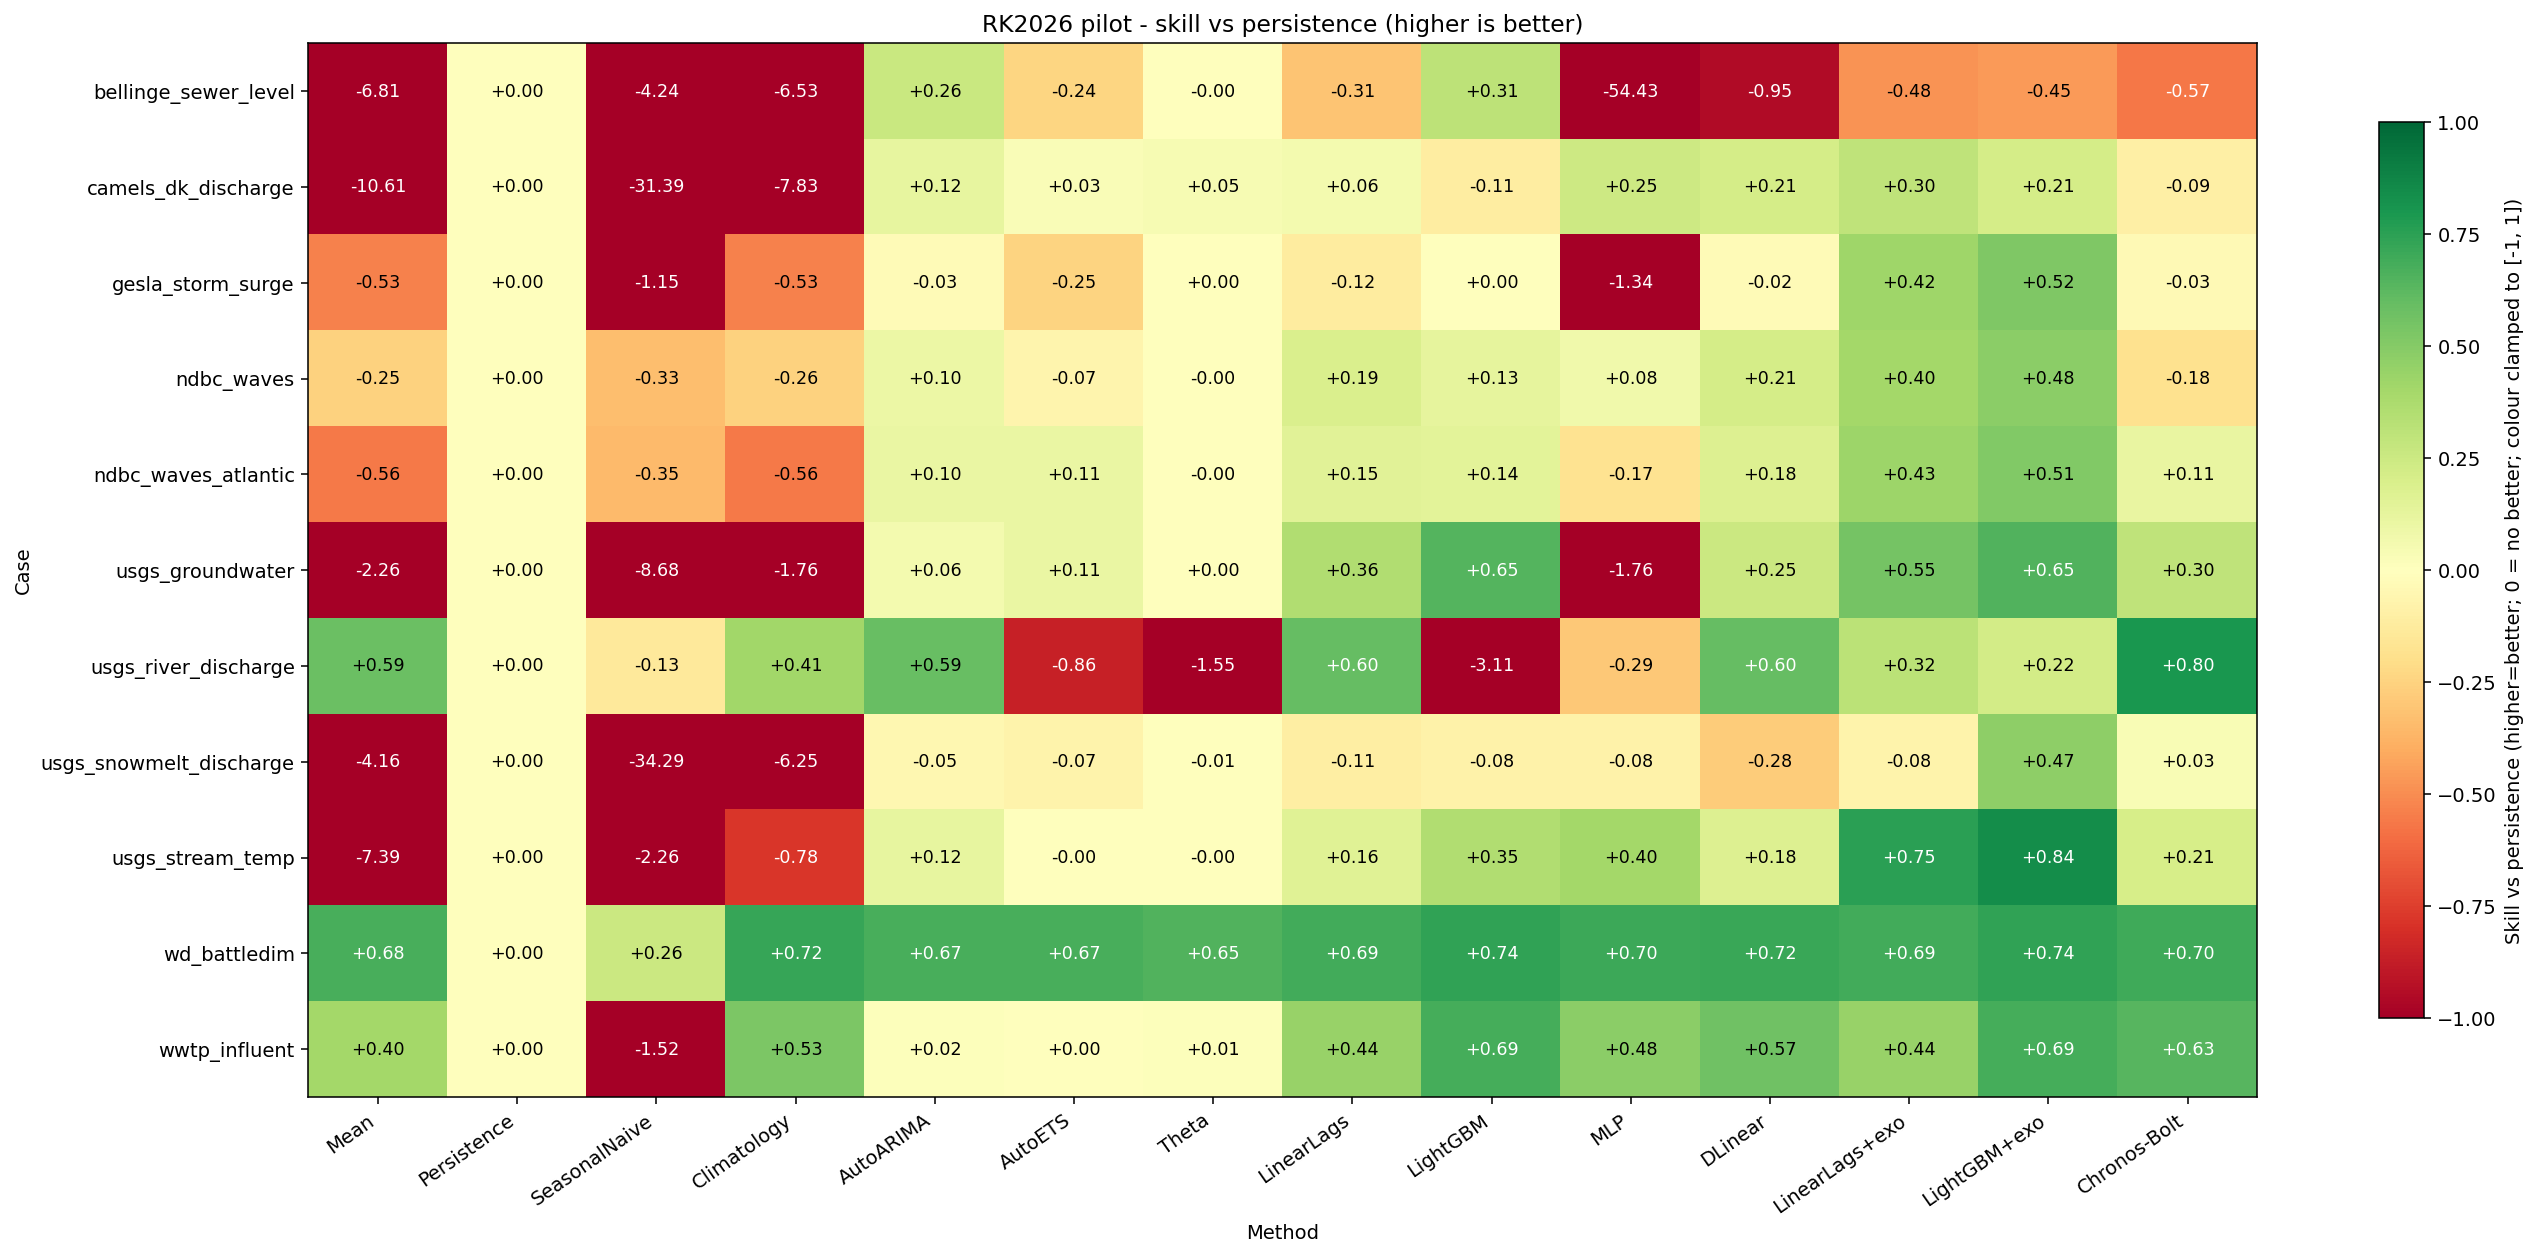
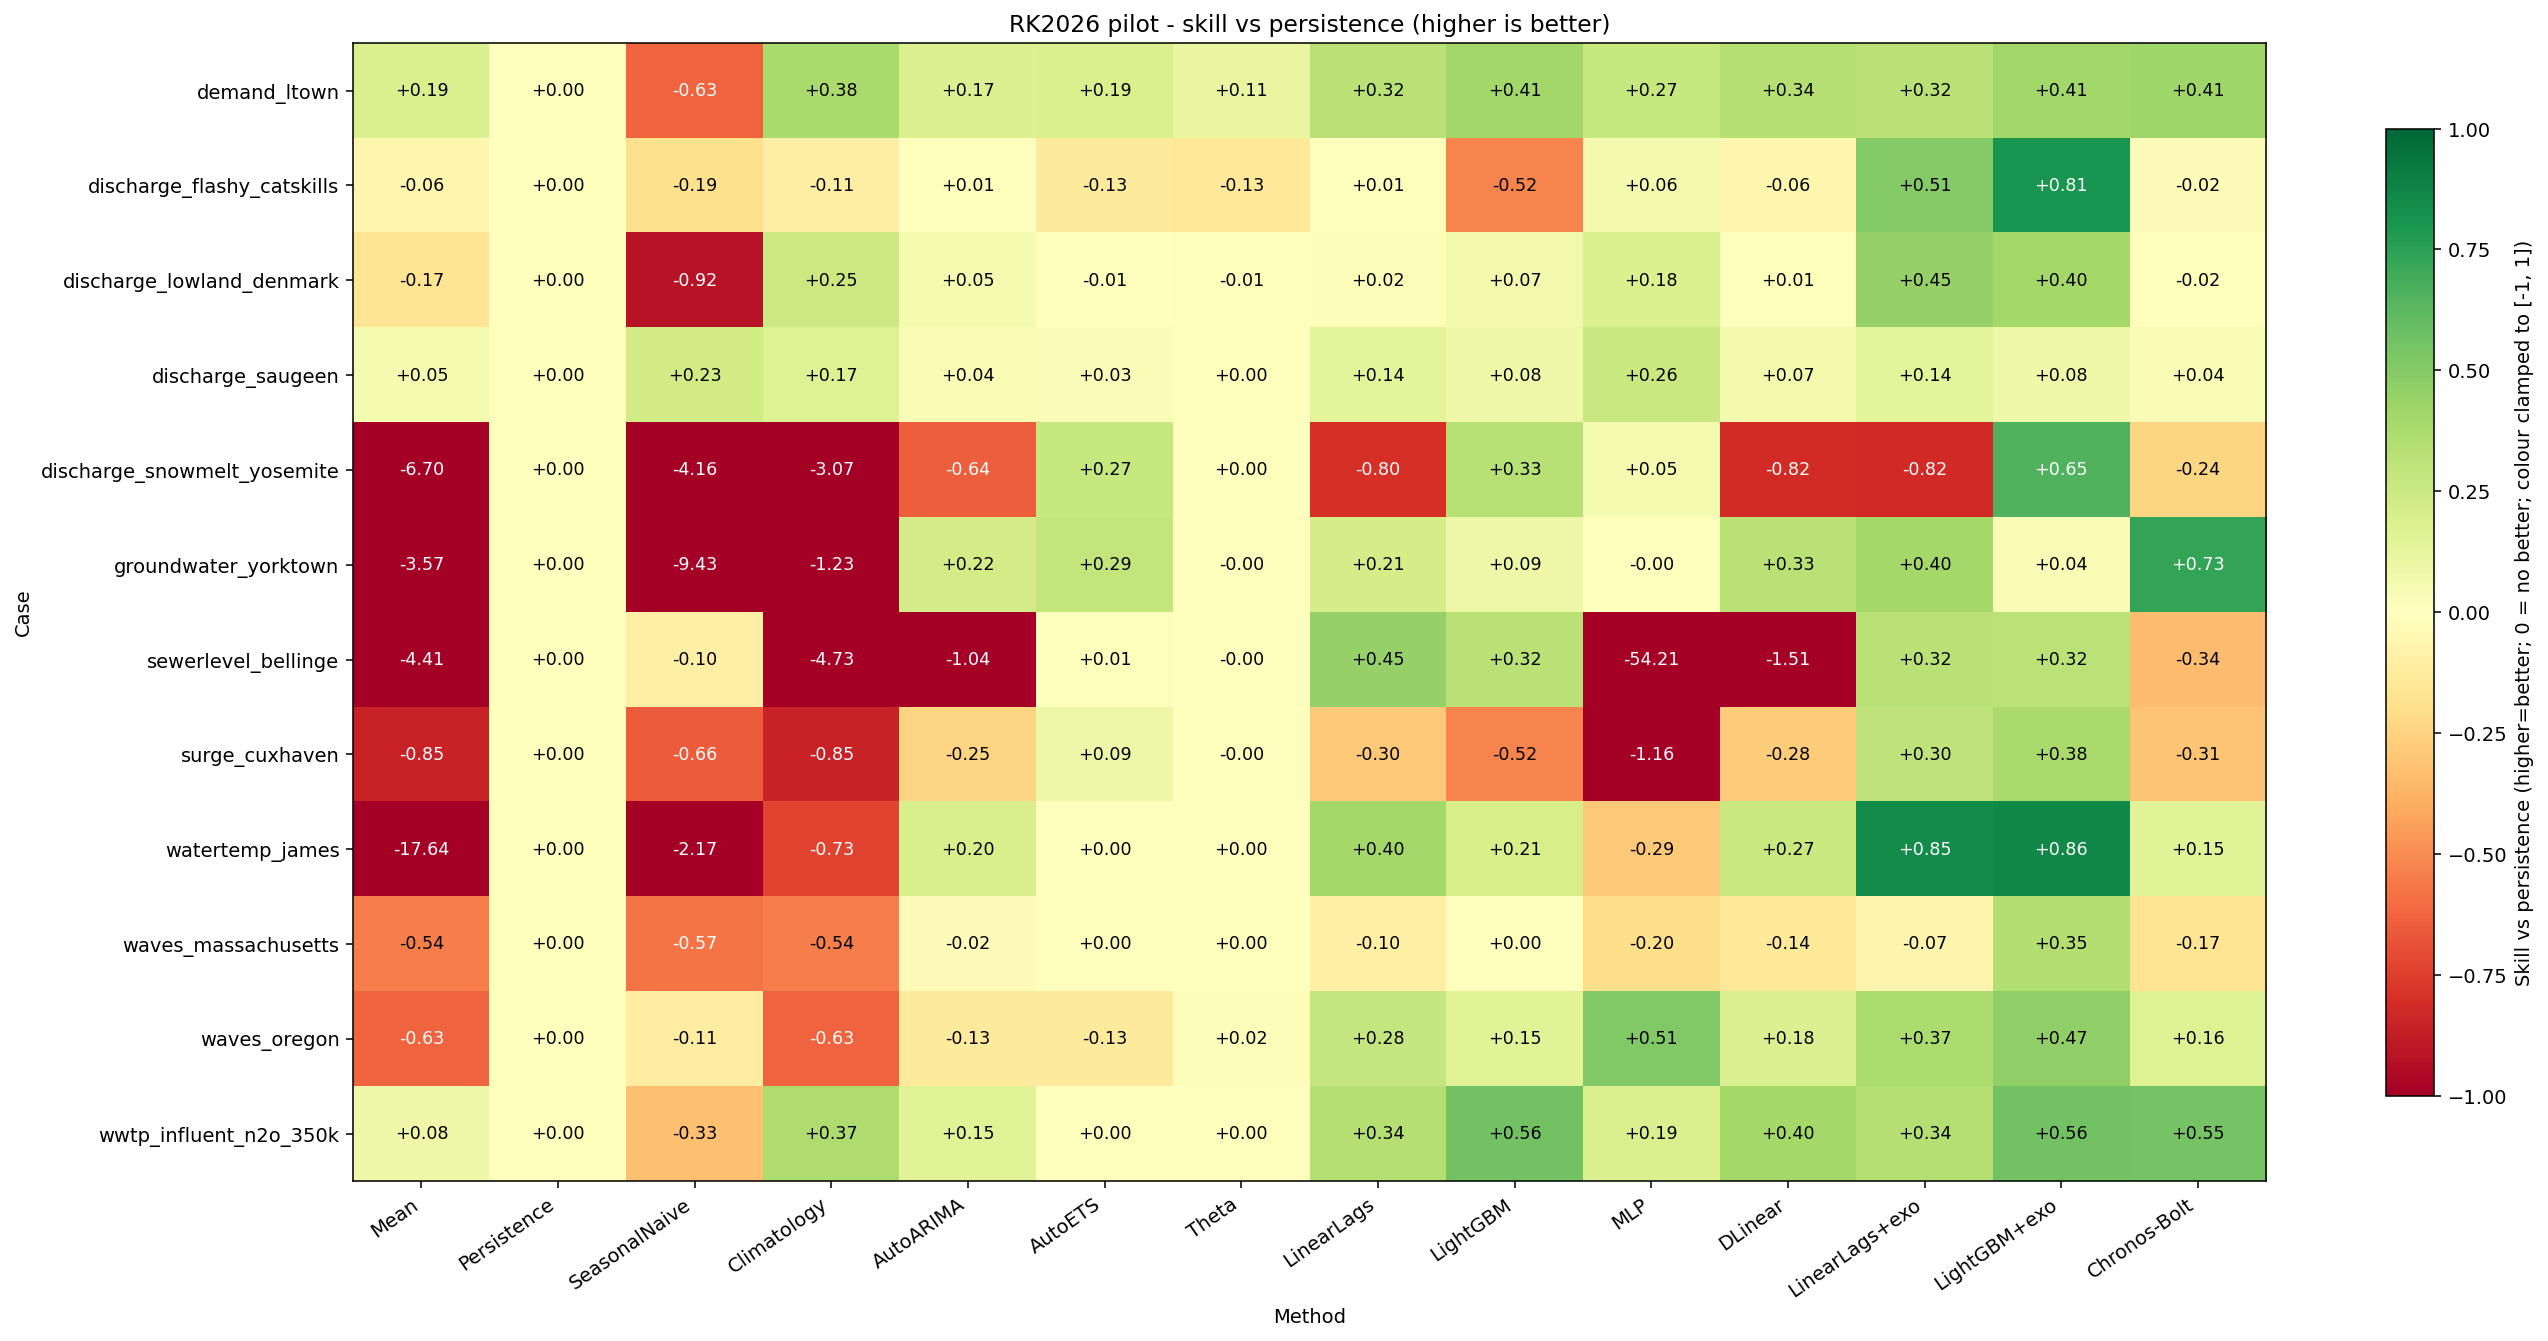
Commit new results with revisited train-val-test split

diff --git a/docs/RESULTS.md b/docs/RESULTS.md
@@ -1,6 +1,6 @@
 # Benchmark results
 
-One consistent pass across **all 11 cases × 14 methods**, scored by **rolling-origin**
+One consistent pass across **all 12 cases × 14 methods**, scored by **rolling-origin**
 evaluation (12 refit origins per cell, errors pooled over origins × lead times, observed
 points only). The headline cell is **skill vs persistence** = `1 − MSE(model)/MSE(persistence)`
 at the primary horizon: positive means better than "tomorrow = today", `1.0` is perfect.
@@ -19,17 +19,18 @@ to [−1, 1] so one catastrophic cell can't wash out the scale). Numbers + analy
 
 | case | SeasonalNaive | AutoARIMA | DLinear | LightGBM | LightGBM+exo | Chronos-Bolt | best |
 |---|---|---|---|---|---|---|---|
-| discharge_lowland_denmark (slow hydrology) | −31.4 | +0.12 | +0.21 | −0.11 | +0.21 | −0.09 | **LinearLags+exo +0.30** |
-| discharge_flashy_catskills (flashy) | −0.13 | +0.59 | +0.60 | −3.11 | +0.22 | **+0.80** | **Chronos +0.80** |
-| discharge_snowmelt_yosemite | −34.3 | −0.05 | −0.28 | −0.08 | +0.47 | +0.03 | **LightGBM+exo +0.47** |
-| groundwater_yorktown | −8.68 | +0.06 | +0.25 | **+0.65** | +0.65 | +0.30 | **LightGBM +0.65** |
-| watertemp_james | −2.26 | +0.12 | +0.18 | +0.35 | **+0.84** | +0.21 | **LightGBM+exo +0.84** |
-| sewerlevel_bellinge | −4.24 | +0.26 | −0.95 | **+0.31** | −0.45 | −0.57 | **LightGBM +0.31** |
-| demand_ltown | +0.26 | +0.67 | +0.72 | **+0.74** | +0.74 | +0.70 | **LightGBM +0.74** |
-| wwtp_influent_n2o_350k | −1.52 | +0.02 | +0.57 | **+0.69** | +0.69 | +0.63 | **LightGBM +0.69** |
-| surge_cuxhaven | −1.15 | −0.03 | −0.02 | +0.00 | **+0.52** | −0.03 | **LightGBM+exo +0.52** |
-| waves_oregon (swell) | −0.33 | +0.10 | +0.21 | +0.13 | **+0.48** | −0.18 | **LightGBM+exo +0.48** |
-| waves_massachusetts (wind-sea) | −0.35 | +0.10 | +0.18 | +0.14 | **+0.51** | +0.11 | **LightGBM+exo +0.51** |
+| discharge_lowland_denmark (slow hydrology) | −0.92 | +0.05 | +0.01 | +0.07 | +0.40 | −0.02 | **LinearLags+exo +0.45** |
+| discharge_flashy_catskills (flashy) | −0.19 | +0.01 | −0.06 | −0.52 | **+0.81** | −0.02 | **LightGBM+exo +0.81** |
+| discharge_snowmelt_yosemite | −4.16 | −0.64 | −0.82 | +0.33 | **+0.65** | −0.24 | **LightGBM+exo +0.65** |
+| discharge_saugeen (seasonal) | +0.23 | +0.04 | +0.07 | +0.08 | +0.08 | +0.04 | **MLP +0.26** |
+| groundwater_yorktown | −9.43 | +0.22 | +0.33 | +0.09 | +0.04 | **+0.73** | **Chronos +0.73** |
+| watertemp_james | −2.17 | +0.20 | +0.27 | +0.21 | **+0.86** | +0.15 | **LightGBM+exo +0.86** |
+| sewerlevel_bellinge | −0.10 | −1.04 | −1.51 | +0.32 | +0.32 | −0.34 | **LinearLags +0.45** |
+| demand_ltown | −0.63 | +0.17 | +0.34 | **+0.41** | +0.41 | +0.41 | **LightGBM +0.41** |
+| wwtp_influent_n2o_350k | −0.33 | +0.15 | +0.40 | **+0.56** | +0.56 | +0.55 | **LightGBM +0.56** |
+| surge_cuxhaven | −0.66 | −0.25 | −0.28 | −0.52 | **+0.38** | −0.31 | **LightGBM+exo +0.38** |
+| waves_oregon (swell) | −0.11 | −0.13 | +0.18 | +0.15 | +0.47 | +0.16 | **MLP +0.51** |
+| waves_massachusetts (wind-sea) | −0.57 | −0.02 | −0.14 | +0.00 | **+0.35** | −0.17 | **LightGBM+exo +0.35** |
 
 (`+exo` = the exogenous-aware Tier-2 variant; on `demand_ltown` / `wwtp_influent_n2o_350k`, which
 declare no covariates, it equals the univariate column by construction.)
@@ -37,65 +38,78 @@ declare no covariates, it equals the univariate column by construction.)
 ## What the matrix says
 
 **1. Covariate-aware models win where covariates exist; plain boosting wins the regular,
-self-driven series.** `LightGBM+exo` or `LinearLags+exo` is best on 8 of 11 cases; plain
-`LightGBM` takes the three that are essentially self-driven (`demand_ltown` demand,
-`wwtp_influent_n2o_350k` flow, `groundwater_yorktown`); `Chronos` zero-shot takes the flashy river. No
-naive or classical method wins anywhere on these horizons.
+self-driven series.** `LightGBM+exo` or `LinearLags+exo` is best on 6 of 12 cases (the
+covariate-driven ones); `LightGBM` takes the two self-driven cases (`demand_ltown`,
+`wwtp_influent_n2o_350k`); `Chronos` zero-shot takes groundwater; `MLP` takes the two wave
+cases. No naive or classical method wins anywhere on these horizons.
 
 **2. Domain covariates add large skill — exactly where the physics predicts.** The
 exogenous-aware variants lift skill dramatically on the forced cases:
 
 | case | driver | univariate → +exo (skill) |
 |---|---|---|
-| watertemp_james | air temperature | **+0.35 → +0.84** |
-| surge_cuxhaven | ERA5 wind/pressure | **+0.00 → +0.52** |
-| discharge_snowmelt_yosemite | temperature/precip | **−0.08 → +0.47** |
-| waves_oregon / waves_massachusetts | wind | +0.13 → +0.48 / +0.14 → +0.51 |
-| discharge_lowland_denmark | precipitation (via LinearLags) | +0.06 → +0.30 |
-| groundwater_yorktown | (slow, integrative) | +0.65 → +0.65 — *no gain* |
+| discharge_flashy_catskills | precipitation | **−0.52 → +0.81** |
+| watertemp_james | air temperature | **+0.21 → +0.86** |
+| surge_cuxhaven | ERA5 wind/pressure | **−0.52 → +0.38** |
+| discharge_snowmelt_yosemite | temperature/precip | **+0.33 → +0.65** |
+| waves_oregon / waves_massachusetts | wind | +0.15 → +0.47 / +0.00 → +0.35 |
+| discharge_lowland_denmark | precipitation (via LinearLags) | +0.02 → +0.45 |
+| groundwater_yorktown | (slow, integrative) | +0.09 → +0.04 — *no gain* |
 
 Covariate value is real, case-specific, and tracks domain understanding. Groundwater is the
 instructive null: the water table integrates weeks of recharge, which the target's own lags
 already capture, so an instantaneous precip feature adds nothing.
 
-**3. …but covariates are not free — they can hurt.** On `sewerlevel_bellinge`, adding the
-oracle rain covariate *lowered* LightGBM from **+0.31 to −0.45**. At 15-min resolution the
-rain→level response is sharp and variably-lagged; across rolling origins the model keys on
-rain timing that doesn't generalise. An honest reminder that "physically relevant" ≠
-"helps the forecast" — covariate engineering (lags, antecedent state) matters, and this case
-is a candidate for the event-aware framing Rocco suggested.
+**3. The flashy river is now the strongest covariate-gain case.** On `discharge_flashy_catskills`,
+plain `LightGBM` collapses to **−0.52** (gradient boosting overfits the spiky daily signal),
+but `LightGBM+exo` jumps to **+0.81** using precipitation — the single largest exo gain in
+the matrix. Meanwhile `DLinear` and `AutoARIMA` both sit near zero, and `Chronos` is
+marginally negative. So the flashy-regime conclusion has flipped: the covariate-aware
+booster is now the strongest method, not zero-shot.
 
-**4. The usual winner is brittle on flashy daily flow.** Univariate `LightGBM` is the worst
-method on `discharge_flashy_catskills` (**−3.11** — gradient boosting overfits the spiky daily
-signal), while linear `DLinear` (+0.60), `AutoARIMA` (+0.59) and zero-shot `Chronos` (+0.80)
-all do well; `+exo` rescues boosting to +0.22. So "boosting always wins" is false — on a
-flashy regime the simpler and pretrained models are safer.
+**4. Covariates must be matched to model type — linear wins where boosting stalls.** On
+`sewerlevel_bellinge`, `LightGBM` and `LightGBM+exo` are tied at **+0.32**, while
+`LinearLags` (with the rain covariate) reaches **+0.45**. At 15-min resolution the sharp,
+variably-lagged rain→level response is more tractable for a linear model, which imposes less
+risk of overfitting across rolling origins. Classical methods all fail badly (AutoARIMA −1.04,
+DLinear −1.51): the sewer-level signal is too non-stationary for them.
 
-**5. MLP is the least robust method.** It collapses on the hard cases (`bellinge` −54,
-`groundwater_yorktown` −1.8, `gesla` −1.3) where it extrapolates wildly. For a cross-case
-benchmark, tree/linear models are the safe default.
+**5. MLP is the least robust method overall but can surprise on smooth wave series.** It
+collapses on the hard cases (`bellinge` −54, `groundwater_yorktown` −0.0,
+`discharge_snowmelt_yosemite` +0.05) but tops the leader board on `waves_oregon` (**+0.51**)
+and `waves_massachusetts` (`LightGBM+exo` is a close second at +0.35). Wave spectra are
+smooth and quasi-periodic — exactly the regime where MLP's implicit global fit is less
+dangerous. For a cross-case benchmark, tree/linear models remain the safe default.
 
 **6. Seasonal-naive is a trap on trending series** — catastrophic on the slow hydrology /
-groundwater cases (camels −31, snowmelt −34, groundwater −8.7) because the year-ago value is
-meaningless there. The "obvious" seasonal baseline must be chosen per case.
+groundwater cases (lowland_denmark −0.92, snowmelt −4.16, groundwater −9.43) because the
+year-ago value is meaningless there. The "obvious" seasonal baseline must be chosen per case.
+
+**7. `discharge_saugeen` is the least forecastable case.** The mildest winner across all cases
+is `MLP +0.26` on this seasonally-regular Canadian river; `SeasonalNaive` (+0.23) is
+competitive, meaning the annual cycle alone carries most of the predictable variance — little
+room for model advantage.
 
 ## Foundation model (Chronos-Bolt, zero-shot)
 
 The pretrained **Chronos-Bolt** forecasts each case **zero-shot — no case-specific
-training**. The KER5 verdict is sharper than "FMs trail tuned models":
+training**. The updated picture:
 
-- **Where the signal is regular it is genuinely competitive** — it *wins the flashy
-  discharge case outright* (**+0.80**, beating every fitted model) and is near-best on water
-  demand (+0.70) and WWTP flow (+0.63), with no fitting at all. A pretrained model matching
-  tuned ML on the well-behaved cases for free is the headline FM result.
-- **Where the dynamics are noisy or covariate-driven it trails** — sewer (−0.57), waves
-  (−0.18), surge (−0.03) — because it is univariate and cannot see the rainfall / wind that
-  carries the skill.
+- **Groundwater is the FM's showcase case.** Chronos wins `groundwater_yorktown` outright at
+  **+0.73**, the highest single-method skill in the matrix, beating every fitted model. The
+  slow, integrative annual cycle is evidently a pattern the pretrained model captures
+  without any case-specific fitting — a striking result.
+- **Where the series is regular it remains competitive** — demand (+0.41, tied for best),
+  WWTP flow (+0.55, second only to LightGBM +0.56) — with no fitting at all.
+- **Where the dynamics are covariate-driven or noisy it trails** — flashy discharge (−0.02),
+  surge (−0.31), waves (−0.17 / −0.17) — because it is univariate and cannot see the
+  rainfall / wind that carries the skill.
 
-So the FM is a **strong, free, but regime-dependent univariate prior**: adopt it where the
-series is regular; it does not yet replace a covariate-aware model on the forced water cases.
-Natural next steps: a **covariate-capable FM** (Chronos-2 / Moirai) and **fine-tuning** the
-top zero-shot performer.
+So the FM is a **strong, free, but regime-dependent univariate prior**: it is now the
+strongest method on the slow integrative groundwater case and competitive on self-driven
+regular series; it does not yet replace a covariate-aware model on the physically-forced
+cases. Natural next steps: a **covariate-capable FM** (Chronos-2 / Moirai) and
+**fine-tuning** on the cases where zero-shot already works.
 
 ## Deep learning (N-HiTS / PatchTST)
 
